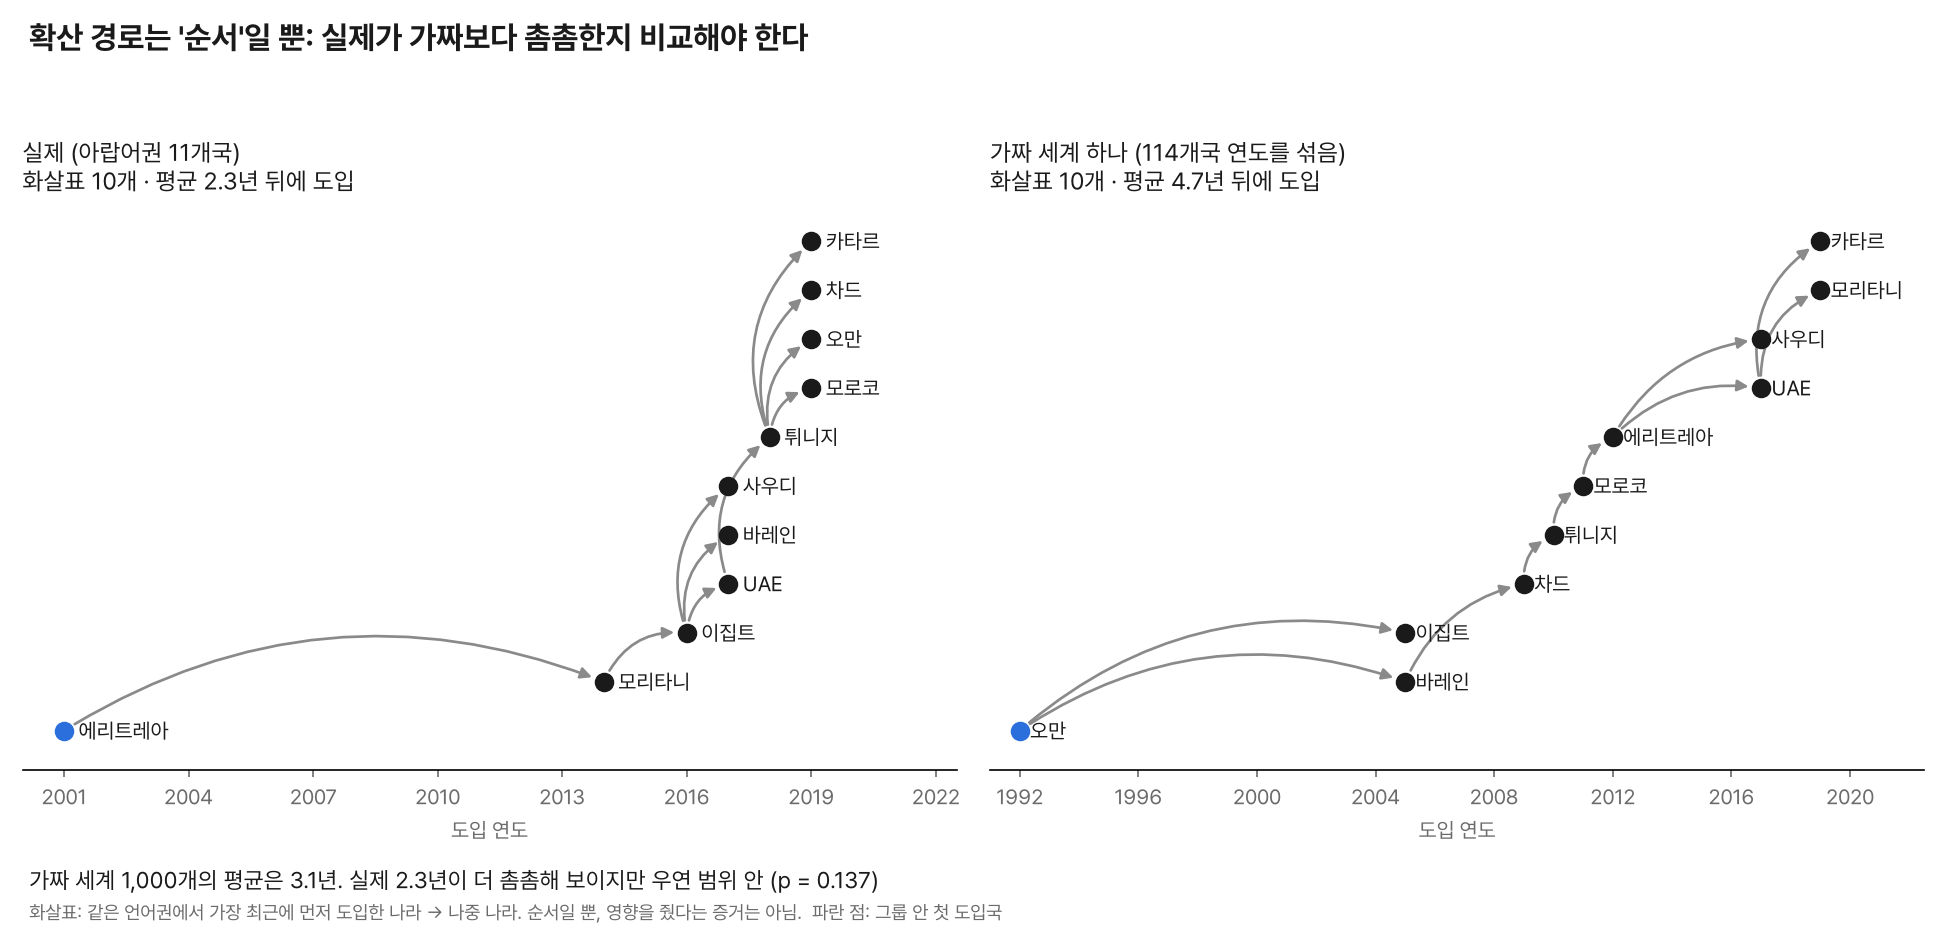
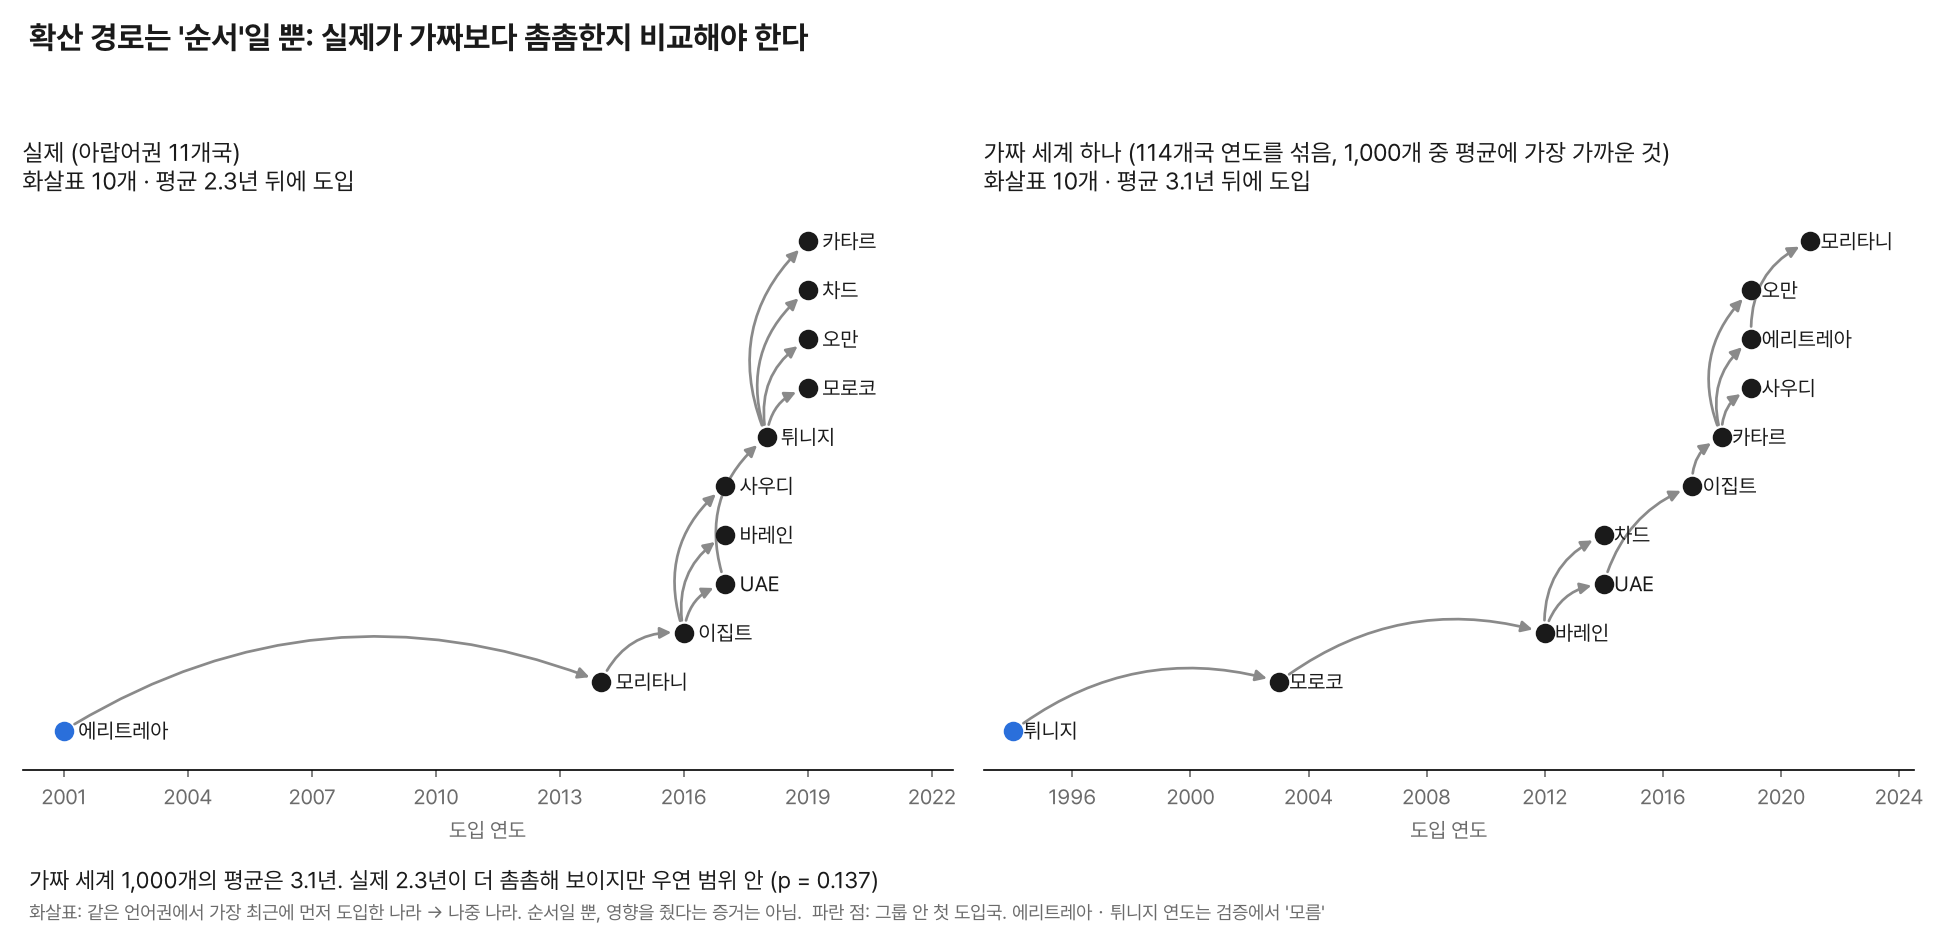
3단계 확산 경로 예시 그림: 가짜 세계를 평균에 가까운 것으로 바꿈
- 오른쪽 가짜 세계: 첫 번째(평균 4.7년) → 1,000개 중 평균(3.1년)에 가장 가까운 것(22번째). 예전 그림은 실제와 차이가 과장돼 보였음
- 아래 설명에 에리트레아・튀니지 연도 '모름' 추가
- p 0.137・평균 3.1년은 그대로, 결과 CSV 안 바뀜

diff --git a/analysis/stage3_figures.py b/analysis/stage3_figures.py
@@ -4,7 +4,9 @@
 설명 문서: docs/analysis/stage3_paths.md
 
 그림 1  figures/stage3_확산경로_예시_실제vs가짜.png
-  언어 계층 아랍어 그룹 도입국(11개국)을 실제 연도 vs 가짜 세계 하나(연도를 섞은 첫 번째)로 나란히
+  언어 계층 아랍어 그룹 도입국(11개국)을 실제 연도 vs 가짜 세계 하나로 나란히
+  가짜 세계 하나 = 1,000개 중 평균 간격이 가짜 평균에 가장 가까운 것 (같으면 앞 번호). 11/25 서영:
+  예전엔 첫 번째(평균 4.7년)라 보통 가짜보다 퍼져 보여 실제와 차이가 과장됨 → 전형적인 하나로 바꿈
   화살표 = 같은 그룹에서 가장 최근에 먼저 도입한 나라 → 나중 나라 (같은 해 먼저 도입국이 여럿이면 알파벳 앞)
   평균 간격 p = 가짜 세계 1,000개 중 평균 간격이 실제보다 짧거나 같은 비율 (114개국 연도를 전체에서 섞음, seed 42)
 그림 2  figures/stage3_경로수_실제vs가짜.png
@@ -107,31 +109,32 @@ def fig1(nodes, names):
     real_lag, _ = mean_lag(codes, real)
 
     rng = np.random.default_rng(SEED)
-    fake_lags, first_fake = [], None
+    fake_lags, fakes = [], []
     for k in range(R):
         ys = rng.permutation(y_all)
         fy = {c: int(ys[i]) for c, i in zip(codes, idx)}
-        if k == 0:
-            first_fake = fy
+        fakes.append(fy)
         fake_lags.append(mean_lag(codes, fy)[0])
     fake_lags = np.array(fake_lags)
     p = (np.sum(fake_lags <= real_lag) + 1) / (R + 1)
+    k_show = int(np.argmin(np.abs(fake_lags - fake_lags.mean())))   # 평균에 가장 가까운 가짜 세계
 
     fig, axes = plt.subplots(1, 2, figsize=(13, 6.2))
     draw_timeline(axes[0], codes, real, names, f"실제 (아랍어권 {len(codes)}개국)")
-    draw_timeline(axes[1], codes, first_fake, names, "가짜 세계 하나 (114개국 연도를 섞음)")
+    draw_timeline(axes[1], codes, fakes[k_show], names,
+                  f"가짜 세계 하나 (114개국 연도를 섞음, 1,000개 중 평균에 가장 가까운 것)")
     fig.suptitle("확산 경로는 '순서'일 뿐: 실제가 가짜보다 촘촘한지 비교해야 한다", x=0.015, ha="left",
                  fontsize=15, fontweight="bold", color=INK)
     verdict = ("이 더 촘촘해 보이지만 우연 범위 안" if p >= 0.05 else "로 가짜보다 촘촘함")         if real_lag < fake_lags.mean() else "로 가짜보다 촘촘하지 않음"
     fig.text(0.015, 0.045, f"가짜 세계 {R:,}개의 평균은 {fake_lags.mean():.1f}년. 실제 {real_lag:.1f}년{verdict} (p = {p:.3f})",
              fontsize=11, color=INK)
     fig.text(0.015, 0.012, "화살표: 같은 언어권에서 가장 최근에 먼저 도입한 나라 → 나중 나라. 순서일 뿐, 영향을 줬다는 증거는 아님."
-             "  파란 점: 그룹 안 첫 도입국", fontsize=9, color=MUTED)
+             "  파란 점: 그룹 안 첫 도입국. 에리트레아・튀니지 연도는 검증에서 '모름'", fontsize=9, color=MUTED)
     fig.tight_layout(rect=(0, 0.07, 1, 0.94))
     fig.savefig(FIG1, dpi=150)
     plt.close(fig)
     return dict(group=GROUP, n=len(codes), real_lag=round(real_lag, 2), fake_lag_mean=round(fake_lags.mean(), 2),
-                p=round(float(p), 4))
+                p=round(float(p), 4), fake_shown=k_show + 1, fake_shown_lag=round(float(fake_lags[k_show]), 2))
 
 
 def fig2():

diff --git a/docs/analysis/stage3_paths.md b/docs/analysis/stage3_paths.md
@@ -23,7 +23,9 @@
 
 - 화살표 규칙: 나라마다 같은 그룹에서 **가장 최근에 먼저 도입한 나라** → 그 나라 (파일럿 그림과 같은 규칙)
 - 실제 평균 간격 **2.3년**, 가짜 세계 1,000개 평균 **3.1년** → 실제가 더 촘촘해 보이지만 **p = 0.137** (우연 범위 안)
-- 오른쪽은 가짜 세계 첫 번째 하나 (평균 4.7년). 가짜에서도 '확산 경로'처럼 보이는 그림이 나온다는 걸 보여주려는 것
+- 오른쪽은 가짜 세계 하나: 1,000개 중 평균 간격이 가짜 평균에 가장 가까운 것 (22번째, 3.1년). 가짜에서도 '확산 경로'처럼 보이는 그림이 나온다는 걸 보여주려는 것
+  - 11/25 서영: 예전엔 첫 번째 가짜 세계(4.7년)라 보통 가짜보다 퍼져 보여 실제와 차이가 과장됨 → 전형적인 하나로 바꿈. 그림만 바뀌고 p・평균은 그대로
+- 연도 주의: 출발점 에리트레아(2001)와 화살표 4개가 나가는 튀니지(2018)는 연도 검증(`year_check.csv`)에서 둘 다 '모름' → 경로 모양은 연도 몇 개에 크게 달라짐
 - 현재 데이터(114개국) 기준. 파일럿 그림(11/14 `fig1~fig5`)은 #27에서 지움 → 발표에는 이 그림을 씀
 
 ## 3. 그림 2: 1~3년 간격 경로 수 (`stage3_path_comparison.csv`)
